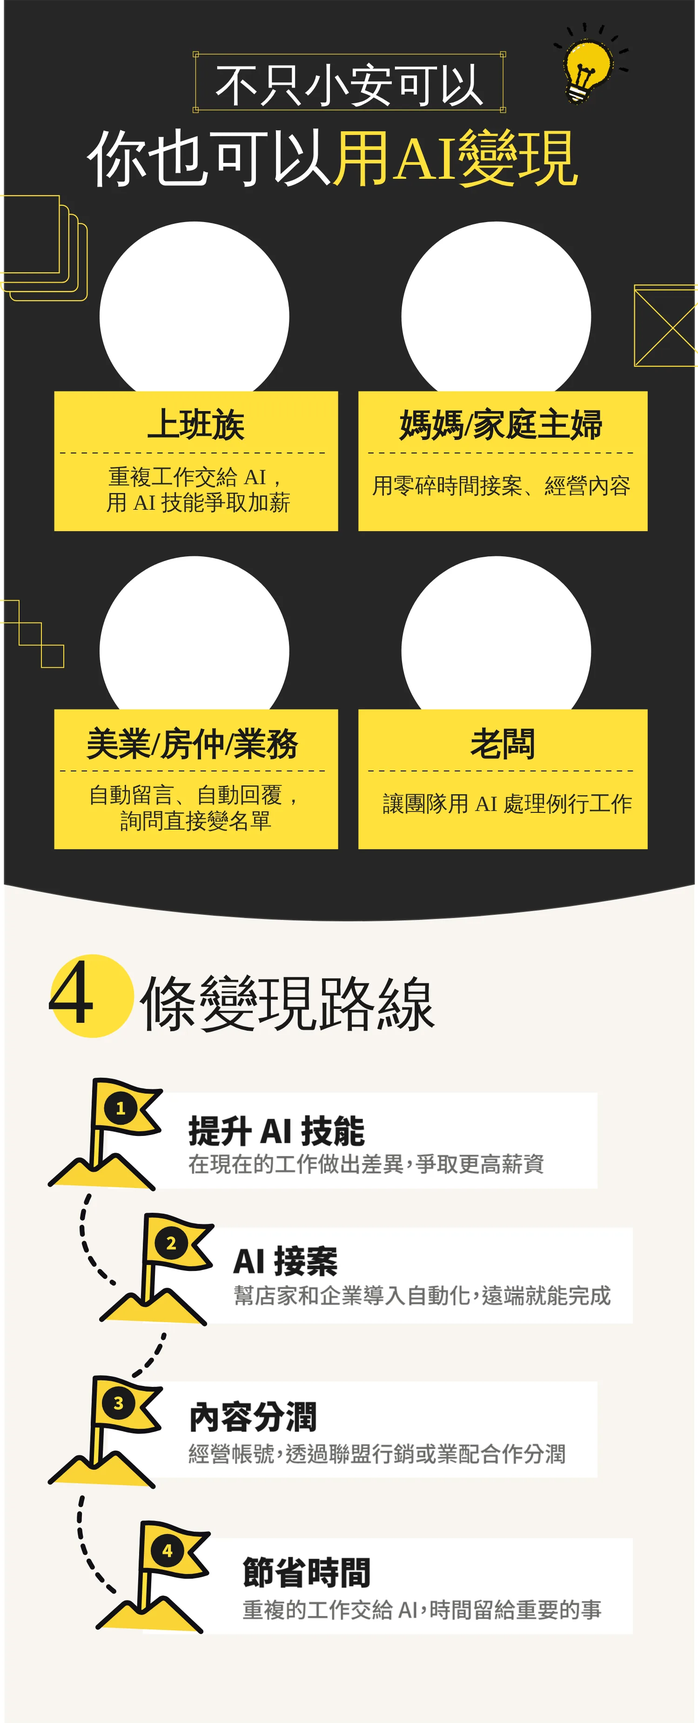
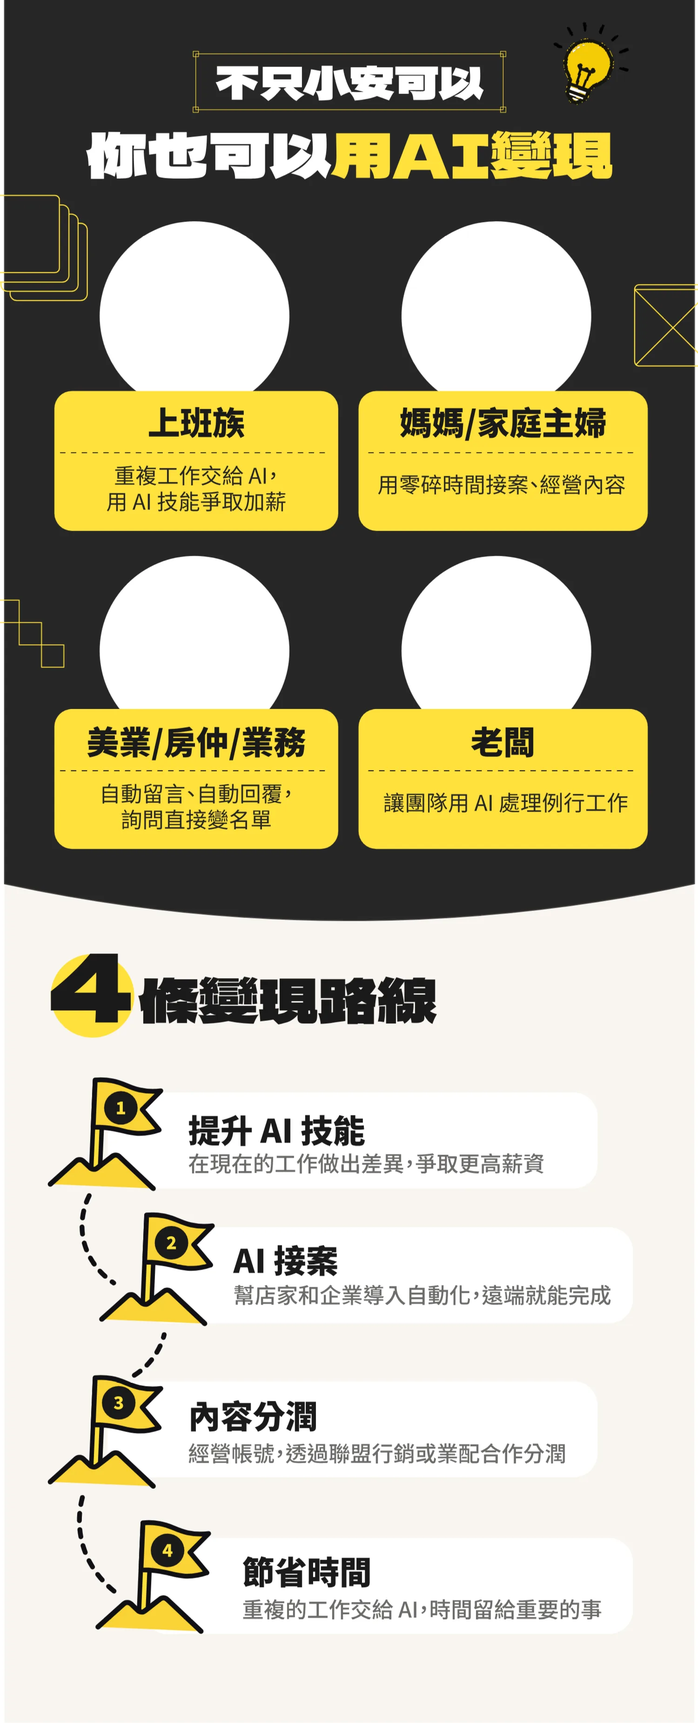
Update br-order: outlined-text bases, emphasis and button animations
Claude-Session: https://claude.ai/code/session_016nzG4RAtAFM2gf9k9NB6ra

diff --git a/br-order/index.html b/br-order/index.html
@@ -5,187 +5,155 @@
 <meta name="viewport" content="width=device-width,initial-scale=1">
 <title>AI 反擊計畫</title>
 <style>
-:root{--page:#101014}
 *{box-sizing:border-box}
-html,body{margin:0;background:var(--page)}
+html,body{margin:0;background:#101014}
 .page{max-width:750px;margin:0 auto;overflow:hidden}
-.sec{position:relative}
-.band{width:100%;background-size:100% auto;background-repeat:no-repeat;opacity:0;transform:translateY(18px);transition:opacity .7s ease,transform .8s cubic-bezier(.2,.7,.2,1)}
-.band.in{opacity:1;transform:none}
-.layer{position:absolute;pointer-events:none;opacity:0;transition:opacity .6s ease var(--d),transform .9s cubic-bezier(.34,1.56,.64,1) var(--d)}
-.layer img{display:block;width:100%;height:auto}
-.layer.pop{transform:translateY(30px) scale(.82)}
-.layer.swing{transform:translateX(-40px) rotate(-8deg)}
-.layer.photo{transform:scale(1.08);transition-duration:.9s,1.2s;transition-timing-function:ease,ease}
-.layer.in{opacity:1;transform:none}
-.layer.pop.in img{animation:float 3.6s ease-in-out calc(var(--d) + 1s) infinite}
-.layer.swing.in img{animation:wiggle 4s ease-in-out 1.2s infinite}
-@keyframes float{0%,100%{transform:translateY(0)}50%{transform:translateY(-8px)}}
-@keyframes wiggle{0%,100%{transform:rotate(0)}50%{transform:rotate(-3deg) scale(1.03)}}
-@media (prefers-reduced-motion:reduce){.band,.layer{opacity:1!important;transform:none!important;transition:none!important}.layer img{animation:none!important}}
+.sec{position:relative;width:100%}
+.base{display:block;width:100%;height:100%}
+.ill,.fx{position:absolute;pointer-events:none}
+.ill img{display:block;width:100%;height:auto}
+.fx{background-repeat:no-repeat;overflow:hidden;transform-origin:50% 50%}
+.ill.float img{animation:float 3.8s ease-in-out var(--d) infinite}
+.ill.swing img{transform-origin:20% 80%;animation:swing 3.2s ease-in-out infinite}
+.fx.pulse{animation:pulse 2.2s ease-in-out calc(var(--i)*-.37s) infinite}
+.fx.wiggle{animation:wiggle 2.6s ease-in-out calc(var(--i)*-.45s) infinite}
+.fx.flag{transform-origin:30% 95%}
+.fx.shine::after{content:"";position:absolute;inset:0;background:linear-gradient(105deg,transparent 30%,rgba(255,255,255,.75) 47%,rgba(255,255,255,.9) 50%,rgba(255,255,255,.75) 53%,transparent 70%);background-size:250% 100%;background-position:150% 0;animation:shine 3.4s ease-in-out calc(var(--i)*-.6s) infinite}
+.fx.shine.soft::after{mix-blend-mode:overlay}
+.fx.beat{opacity:1}
+.fx.beat.run{animation:beat .7s cubic-bezier(.34,1.56,.64,1) calc(var(--i)*.12s) 1 both}
+.sec:not(.run) .ill img,.sec:not(.run) .fx,.sec:not(.run) .fx::after{animation-play-state:paused}
+@keyframes float{0%,100%{transform:translateY(0)}50%{transform:translateY(-3%)}}
+@keyframes swing{0%,100%{transform:rotate(0)}50%{transform:rotate(-5deg) scale(1.04)}}
+@keyframes pulse{0%,100%{transform:scale(1)}50%{transform:scale(1.06)}}
+@keyframes wiggle{0%,100%{transform:scale(1.08) rotate(0)}25%{transform:scale(1.08) rotate(-5deg)}75%{transform:scale(1.08) rotate(5deg)}}
+@keyframes shine{0%,40%{background-position:150% 0}100%{background-position:-50% 0}}
+@keyframes beat{0%{transform:scale(1)}45%{transform:scale(1.18)}100%{transform:scale(1)}}
+@media (prefers-reduced-motion:reduce){.ill img,.fx,.fx::after{animation:none!important}}
 </style>
 </head>
 <body>
 <main class="page">
-<section class="sec" style="background:#01040f">
-<div class="band" style="aspect-ratio:1500/349;background-image:url(./s01/base.webp);background-position:0 0.0000%"></div>
-<div class="band" style="aspect-ratio:1500/245;background-image:url(./s01/base.webp);background-position:0 14.9337%"></div>
-<div class="band" style="aspect-ratio:1500/180;background-image:url(./s01/base.webp);background-position:0 24.7294%"></div>
-<div class="band" style="aspect-ratio:1500/445;background-image:url(./s01/base.webp);background-position:0 36.2190%"></div>
-<div class="band" style="aspect-ratio:1500/128;background-image:url(./s01/base.webp);background-position:0 49.6740%"></div>
-<div class="band" style="aspect-ratio:1500/279;background-image:url(./s01/base.webp);background-position:0 58.4889%"></div>
-<div class="band" style="aspect-ratio:1500/412;background-image:url(./s01/base.webp);background-position:0 74.9309%"></div>
-<div class="band" style="aspect-ratio:1500/124;background-image:url(./s01/base.webp);background-position:0 82.9129%"></div>
-<div class="band" style="aspect-ratio:1500/195;background-image:url(./s01/base.webp);background-position:0 90.5739%"></div>
-<div class="band" style="aspect-ratio:1500/225;background-image:url(./s01/base.webp);background-position:0 100.0000%"></div>
-<div class="layer pop" style="left:25.152%;top:46.006%;width:52.667%;--d:0.00s"><img src="./s01/l9.webp" alt="" loading="lazy"></div>
-<div class="layer swing" style="left:5.25%;top:26.592%;width:18.067%;--d:0.15s"><img src="./s01/l13.webp" alt="" loading="lazy"></div>
+<section class="sec" style="aspect-ratio:1500/2582">
+<img class="base" src="./s01/base.webp?v=2" alt="" width="1500" height="2582">
+<div class="ill float" style="left:25.162%;top:45.984%;width:52.667%;--d:0.0s"><img src="./s01/l9.webp?v=2" alt="" loading="lazy"></div>
+<div class="ill swing" style="left:5.262%;top:26.57%;width:18.067%;--d:-0.9s"><img src="./s01/l13.webp?v=2" alt="" loading="lazy"></div>
+<div class="fx pulse shine" style="left:12.667%;top:77.847%;width:76.667%;height:6.584%;background-image:url(./s01/base.webp?v=2);background-size:130.435% auto;background-position:54.286% 83.333%;border-radius:0.70% / 4.71%;--i:0"></div>
 </section>
-<section class="sec" style="background:#ffe13c">
-<div class="band" style="aspect-ratio:1500/529;background-image:url(./s02/base.webp);background-position:0 0.0000%"></div>
-<div class="band" style="aspect-ratio:1500/95;background-image:url(./s02/base.webp);background-position:0 24.7081%"></div>
-<div class="band" style="aspect-ratio:1500/242;background-image:url(./s02/base.webp);background-position:0 31.2939%"></div>
-<div class="band" style="aspect-ratio:1500/331;background-image:url(./s02/base.webp);background-position:0 45.4593%"></div>
-<div class="band" style="aspect-ratio:1500/90;background-image:url(./s02/base.webp);background-position:0 55.7782%"></div>
-<div class="band" style="aspect-ratio:1500/184;background-image:url(./s02/base.webp);background-position:0 62.7193%"></div>
-<div class="band" style="aspect-ratio:1500/445;background-image:url(./s02/base.webp);background-position:0 82.1329%"></div>
-<div class="band" style="aspect-ratio:1500/95;background-image:url(./s02/base.webp);background-position:0 89.4909%"></div>
-<div class="band" style="aspect-ratio:1500/225;background-image:url(./s02/base.webp);background-position:0 100.0000%"></div>
-
+<section class="sec" style="aspect-ratio:1500/2236">
+<img class="base" src="./s02/base.webp?v=2" alt="" width="1500" height="2236" loading="lazy">
+<div class="fx pulse" style="left:53.667%;top:12.299%;width:16.333%;height:10.063%;background-image:url(./s02/base.webp?v=2);background-size:612.245% auto;background-position:64.143% 13.675%;border-radius:0.00% / 0.00%;--i:0"></div>
+<div class="fx wiggle" style="left:8.667%;top:28.399%;width:9.000%;height:6.261%;background-image:url(./s02/base.webp?v=2);background-size:1111.111% auto;background-position:9.524% 30.296%;border-radius:0.00% / 0.00%;--i:1"></div>
+<div class="fx wiggle" style="left:8.667%;top:43.292%;width:9.000%;height:6.261%;background-image:url(./s02/base.webp?v=2);background-size:1111.111% auto;background-position:9.524% 46.183%;border-radius:0.00% / 0.00%;--i:2"></div>
+<div class="fx wiggle" style="left:8.667%;top:58.229%;width:9.000%;height:6.261%;background-image:url(./s02/base.webp?v=2);background-size:1111.111% auto;background-position:9.524% 62.118%;border-radius:0.00% / 0.00%;--i:3"></div>
+<div class="fx wiggle" style="left:8.667%;top:72.898%;width:9.000%;height:6.485%;background-image:url(./s02/base.webp?v=2);background-size:1111.111% auto;background-position:9.524% 77.953%;border-radius:0.00% / 0.00%;--i:4"></div>
+<div class="fx wiggle" style="left:86.333%;top:91.234%;width:11.000%;height:6.932%;background-image:url(./s02/base.webp?v=2);background-size:909.091% auto;background-position:97.004% 98.030%;border-radius:0.00% / 0.00%;--i:5"></div>
+<div class="fx shine soft" style="left:8.000%;top:84.302%;width:84.333%;height:11.852%;background-image:url(./s02/base.webp?v=2);background-size:118.577% auto;background-position:51.064% 95.637%;border-radius:0.00% / 0.00%;--i:6"></div>
 </section>
-<section class="sec" style="background:#ffffff">
-<div class="band" style="aspect-ratio:1500/586;background-image:url(./s03/base.webp);background-position:0 0.0000%"></div>
-<div class="band" style="aspect-ratio:1500/133;background-image:url(./s03/base.webp);background-position:0 28.1190%"></div>
-<div class="band" style="aspect-ratio:1500/282;background-image:url(./s03/base.webp);background-position:0 37.1576%"></div>
-<div class="band" style="aspect-ratio:1500/130;background-image:url(./s03/base.webp);background-position:0 47.9636%"></div>
-<div class="band" style="aspect-ratio:1500/295;background-image:url(./s03/base.webp);background-position:0 58.8450%"></div>
-<div class="band" style="aspect-ratio:1500/125;background-image:url(./s03/base.webp);background-position:0 68.1644%"></div>
-<div class="band" style="aspect-ratio:1500/232;background-image:url(./s03/base.webp);background-position:0 78.1360%"></div>
-<div class="band" style="aspect-ratio:1500/191;background-image:url(./s03/base.webp);background-position:0 88.0059%"></div>
-<div class="band" style="aspect-ratio:1500/243;background-image:url(./s03/base.webp);background-position:0 100.0000%"></div>
-
+<section class="sec" style="aspect-ratio:1500/2217">
+<img class="base" src="./s03/base.webp?v=2" alt="" width="1500" height="2217" loading="lazy">
+<div class="fx wiggle" style="left:2.000%;top:4.511%;width:15.000%;height:6.540%;background-image:url(./s03/base.webp?v=2);background-size:666.667% auto;background-position:2.353% 4.826%;border-radius:0.00% / 0.00%;--i:0"></div>
+<div class="fx beat" style="left:6.667%;top:26.387%;width:17.667%;height:6.089%;background-image:url(./s03/base.webp?v=2);background-size:566.038% auto;background-position:8.097% 28.098%;border-radius:0.00% / 0.00%;--i:1"></div>
+<div class="fx beat" style="left:52.667%;top:26.387%;width:17.667%;height:6.089%;background-image:url(./s03/base.webp?v=2);background-size:566.038% auto;background-position:63.968% 28.098%;border-radius:0.00% / 0.00%;--i:2"></div>
+<div class="fx beat" style="left:6.667%;top:45.196%;width:28.000%;height:5.683%;background-image:url(./s03/base.webp?v=2);background-size:357.143% auto;background-position:9.259% 47.920%;border-radius:0.00% / 0.00%;--i:3"></div>
+<div class="fx beat" style="left:52.667%;top:45.196%;width:29.200%;height:5.683%;background-image:url(./s03/base.webp?v=2);background-size:342.466% auto;background-position:74.388% 47.920%;border-radius:0.00% / 0.00%;--i:4"></div>
+<div class="fx beat" style="left:6.667%;top:64.051%;width:23.200%;height:6.180%;background-image:url(./s03/base.webp?v=2);background-size:431.034% auto;background-position:8.681% 68.269%;border-radius:0.00% / 0.00%;--i:5"></div>
+<div class="fx beat" style="left:52.667%;top:64.051%;width:27.200%;height:6.180%;background-image:url(./s03/base.webp?v=2);background-size:367.647% auto;background-position:72.344% 68.269%;border-radius:0.00% / 0.00%;--i:6"></div>
+<div class="fx shine" style="left:5.667%;top:88.408%;width:88.667%;height:5.954%;background-image:url(./s03/base.webp?v=2);background-size:112.782% auto;background-position:50.000% 94.005%;border-radius:0.00% / 0.00%;--i:7"></div>
 </section>
-<section class="sec" style="background:#101014">
-<div class="band" style="aspect-ratio:1500/304;background-image:url(./s04/base.webp);background-position:0 0.0000%"></div>
-<div class="band" style="aspect-ratio:1500/652;background-image:url(./s04/base.webp);background-position:0 11.5326%"></div>
-<div class="band" style="aspect-ratio:1500/91;background-image:url(./s04/base.webp);background-position:0 29.9030%"></div>
-<div class="band" style="aspect-ratio:1500/779;background-image:url(./s04/base.webp);background-position:0 41.7298%"></div>
-<div class="band" style="aspect-ratio:1500/291;background-image:url(./s04/base.webp);background-position:0 60.9276%"></div>
-<div class="band" style="aspect-ratio:1500/277;background-image:url(./s04/base.webp);background-position:0 70.3089%"></div>
-<div class="band" style="aspect-ratio:1500/255;background-image:url(./s04/base.webp);background-position:0 78.9318%"></div>
-<div class="band" style="aspect-ratio:1500/332;background-image:url(./s04/base.webp);background-position:0 89.6143%"></div>
-<div class="band" style="aspect-ratio:1500/307;background-image:url(./s04/base.webp);background-position:0 100.0000%"></div>
-
+<section class="sec" style="aspect-ratio:1500/3288">
+<img class="base" src="./s04/base.webp?v=2" alt="" width="1500" height="3288" loading="lazy">
+<div class="fx pulse" style="left:60.000%;top:14.599%;width:36.000%;height:5.627%;background-image:url(./s04/base.webp?v=2);background-size:277.778% auto;background-position:93.750% 15.469%;border-radius:0.00% / 0.00%;--i:0"></div>
+<div class="fx pulse" style="left:7.467%;top:47.597%;width:14.933%;height:6.904%;background-image:url(./s04/base.webp?v=2);background-size:669.643% auto;background-position:8.777% 51.127%;border-radius:0.00% / 0.00%;--i:1"></div>
+<div class="fx pulse" style="left:34.467%;top:47.597%;width:15.200%;height:6.904%;background-image:url(./s04/base.webp?v=2);background-size:657.895% auto;background-position:40.645% 51.127%;border-radius:0.00% / 0.00%;--i:2"></div>
+<div class="fx pulse" style="left:63.533%;top:47.597%;width:15.000%;height:6.904%;background-image:url(./s04/base.webp?v=2);background-size:666.667% auto;background-position:74.745% 51.127%;border-radius:0.00% / 0.00%;--i:3"></div>
+<div class="fx pulse" style="left:67.467%;top:57.725%;width:21.867%;height:3.467%;background-image:url(./s04/base.webp?v=2);background-size:457.317% auto;background-position:86.348% 59.798%;border-radius:0.00% / 0.00%;--i:4"></div>
+<div class="fx pulse" style="left:67.467%;top:65.328%;width:21.867%;height:3.528%;background-image:url(./s04/base.webp?v=2);background-size:457.317% auto;background-position:86.348% 67.718%;border-radius:0.00% / 0.00%;--i:5"></div>
+<div class="fx pulse" style="left:67.467%;top:73.084%;width:21.867%;height:3.528%;background-image:url(./s04/base.webp?v=2);background-size:457.317% auto;background-position:86.348% 75.757%;border-radius:0.00% / 0.00%;--i:6"></div>
+<div class="fx pulse" style="left:66.667%;top:80.748%;width:22.667%;height:3.498%;background-image:url(./s04/base.webp?v=2);background-size:441.176% auto;background-position:86.207% 83.675%;border-radius:0.00% / 0.00%;--i:7"></div>
+<div class="fx pulse shine" style="left:12.667%;top:89.964%;width:74.667%;height:5.687%;background-image:url(./s04/base.webp?v=2);background-size:133.929% auto;background-position:50.000% 95.389%;border-radius:8.04% / 48.13%;--i:8"></div>
 </section>
-<section class="sec" style="background:#f8f5ef">
-<div class="band" style="aspect-ratio:1500/297;background-image:url(./s05/base.webp);background-position:0 0.0000%"></div>
-<div class="band" style="aspect-ratio:1500/338;background-image:url(./s05/base.webp);background-position:0 20.5252%"></div>
-<div class="band" style="aspect-ratio:1500/316;background-image:url(./s05/base.webp);background-position:0 43.2267%"></div>
-<div class="band" style="aspect-ratio:1500/621;background-image:url(./s05/base.webp);background-position:0 81.7010%"></div>
-<div class="band" style="aspect-ratio:1500/213;background-image:url(./s05/base.webp);background-position:0 100.0000%"></div>
-<div class="layer pop" style="left:14.618%;top:27.748%;width:70.333%;--d:0.00s"><img src="./s05/l8.webp" alt="" loading="lazy"></div>
+<section class="sec" style="aspect-ratio:1500/1785">
+<img class="base" src="./s05/base.webp?v=2" alt="" width="1500" height="1785" loading="lazy">
+<div class="ill float" style="left:14.628%;top:27.715%;width:70.333%;--d:0.0s"><img src="./s05/l8.webp?v=2" alt="" loading="lazy"></div>
+<div class="fx shine soft" style="left:16.667%;top:14.286%;width:67.467%;height:13.445%;background-image:url(./s05/base.webp?v=2);background-size:148.221% auto;background-position:51.230% 16.505%;border-radius:0.00% / 0.00%;--i:0"></div>
+<div class="fx beat" style="left:7.867%;top:69.356%;width:25.867%;height:17.927%;background-image:url(./s05/base.webp?v=2);background-size:386.598% auto;background-position:10.612% 84.505%;border-radius:0.00% / 0.00%;--i:1"></div>
+<div class="fx beat" style="left:37.400%;top:69.356%;width:25.867%;height:17.927%;background-image:url(./s05/base.webp?v=2);background-size:386.598% auto;background-position:50.450% 84.505%;border-radius:0.00% / 0.00%;--i:2"></div>
+<div class="fx beat" style="left:66.400%;top:69.356%;width:25.933%;height:17.927%;background-image:url(./s05/base.webp?v=2);background-size:385.604% auto;background-position:89.649% 84.505%;border-radius:0.00% / 0.00%;--i:3"></div>
+<div class="fx pulse shine" style="left:13.667%;top:88.796%;width:72.667%;height:7.843%;background-image:url(./s05/base.webp?v=2);background-size:137.615% auto;background-position:50.000% 96.353%;border-radius:0.92% / 7.14%;--i:4"></div>
 </section>
-<section class="sec" style="background:#f8f5ef">
-<div class="band" style="aspect-ratio:1500/248;background-image:url(./s06/base.webp);background-position:0 0.0000%"></div>
-<div class="band" style="aspect-ratio:1500/159;background-image:url(./s06/base.webp);background-position:0 9.4512%"></div>
-<div class="band" style="aspect-ratio:1500/274;background-image:url(./s06/base.webp);background-position:0 16.2216%"></div>
-<div class="band" style="aspect-ratio:1500/293;background-image:url(./s06/base.webp);background-position:0 27.3494%"></div>
-<div class="band" style="aspect-ratio:1500/168;background-image:url(./s06/base.webp);background-position:0 37.2467%"></div>
-<div class="band" style="aspect-ratio:1500/261;background-image:url(./s06/base.webp);background-position:0 45.2815%"></div>
-<div class="band" style="aspect-ratio:1500/163;background-image:url(./s06/base.webp);background-position:0 53.5496%"></div>
-<div class="band" style="aspect-ratio:1500/170;background-image:url(./s06/base.webp);background-position:0 59.9311%"></div>
-<div class="band" style="aspect-ratio:1500/240;background-image:url(./s06/base.webp);background-position:0 68.2658%"></div>
-<div class="band" style="aspect-ratio:1500/297;background-image:url(./s06/base.webp);background-position:0 79.4851%"></div>
-<div class="band" style="aspect-ratio:1500/167;background-image:url(./s06/base.webp);background-position:0 86.8884%"></div>
-<div class="band" style="aspect-ratio:1500/343;background-image:url(./s06/base.webp);background-position:0 100.0000%"></div>
-<div class="layer pop" style="left:13.618%;top:14.621%;width:30.733%;--d:0.00s"><img src="./s06/l15.webp" alt="" loading="lazy"></div>
-<div class="layer pop" style="left:58.938%;top:14.259%;width:28.4%;--d:0.15s"><img src="./s06/l16.webp" alt="" loading="lazy"></div>
+<section class="sec" style="aspect-ratio:1500/2783">
+<img class="base" src="./s06/base.webp?v=2" alt="" width="1500" height="2783" loading="lazy">
+<div class="ill float" style="left:13.629%;top:14.6%;width:30.733%;--d:0.0s"><img src="./s06/l15.webp?v=2" alt="" loading="lazy"></div>
+<div class="ill float" style="left:58.948%;top:14.238%;width:28.4%;--d:-0.9s"><img src="./s06/l16.webp?v=2" alt="" loading="lazy"></div>
+<div class="fx shine" style="left:6.000%;top:3.881%;width:20.333%;height:4.312%;background-image:url(./s06/base.webp?v=2);background-size:491.803% auto;background-position:7.531% 4.056%;border-radius:0.00% / 0.00%;--i:0"></div>
+<div class="fx pulse" style="left:69.333%;top:52.641%;width:23.333%;height:4.635%;background-image:url(./s06/base.webp?v=2);background-size:428.571% auto;background-position:90.435% 55.200%;border-radius:0.00% / 0.00%;--i:1"></div>
+<div class="fx pulse" style="left:69.333%;top:58.714%;width:23.333%;height:4.743%;background-image:url(./s06/base.webp?v=2);background-size:428.571% auto;background-position:90.435% 61.637%;border-radius:0.00% / 0.00%;--i:2"></div>
+<div class="fx pulse" style="left:69.333%;top:64.894%;width:23.333%;height:4.563%;background-image:url(./s06/base.webp?v=2);background-size:428.571% auto;background-position:90.435% 67.997%;border-radius:0.00% / 0.00%;--i:3"></div>
 </section>
-<section class="sec" style="background:#f8f5ef">
-<div class="band" style="aspect-ratio:1500/719;background-image:url(./s07/base.webp);background-position:0 0.0000%"></div>
-<div class="band" style="aspect-ratio:1500/142;background-image:url(./s07/base.webp);background-position:0 35.2970%"></div>
-<div class="band" style="aspect-ratio:1500/143;background-image:url(./s07/base.webp);background-position:0 42.2888%"></div>
-<div class="band" style="aspect-ratio:1500/143;background-image:url(./s07/base.webp);background-position:0 49.3124%"></div>
-<div class="band" style="aspect-ratio:1500/143;background-image:url(./s07/base.webp);background-position:0 56.3360%"></div>
-<div class="band" style="aspect-ratio:1500/299;background-image:url(./s07/base.webp);background-position:0 68.6170%"></div>
-<div class="band" style="aspect-ratio:1500/97;background-image:url(./s07/base.webp);background-position:0 76.3208%"></div>
-<div class="band" style="aspect-ratio:1500/114;background-image:url(./s07/base.webp);background-position:0 81.6465%"></div>
-<div class="band" style="aspect-ratio:1500/379;background-image:url(./s07/base.webp);background-position:0 100.0000%"></div>
-<div class="layer pop" style="left:3.637%;top:0.565%;width:22.067%;--d:0.00s"><img src="./s07/l11.webp" alt="" loading="lazy"></div>
+<section class="sec" style="aspect-ratio:1500/2179">
+<img class="base" src="./s07/base.webp?v=2" alt="" width="1500" height="2179" loading="lazy">
+<div class="ill float" style="left:3.647%;top:0.539%;width:22.067%;--d:0.0s"><img src="./s07/l11.webp?v=2" alt="" loading="lazy"></div>
+<div class="fx wiggle" style="left:83.667%;top:17.210%;width:12.800%;height:10.877%;background-image:url(./s07/base.webp?v=2);background-size:781.250% auto;background-position:95.948% 19.310%;border-radius:0.00% / 0.00%;--i:0"></div>
+<div class="fx wiggle" style="left:6.000%;top:60.349%;width:12.133%;height:9.867%;background-image:url(./s07/base.webp?v=2);background-size:824.176% auto;background-position:6.829% 66.955%;border-radius:0.00% / 0.00%;--i:1"></div>
+<div class="fx pulse" style="left:7.333%;top:83.892%;width:24.000%;height:7.572%;background-image:url(./s07/base.webp?v=2);background-size:416.667% auto;background-position:9.649% 90.765%;border-radius:0.00% / 0.00%;--i:2"></div>
+<div class="fx pulse shine soft" style="left:32.000%;top:84.901%;width:58.000%;height:6.654%;background-image:url(./s07/base.webp?v=2);background-size:172.414% auto;background-position:76.190% 90.954%;border-radius:0.00% / 0.00%;--i:3"></div>
 </section>
-<section class="sec" style="background:#262626">
-<div class="band" style="aspect-ratio:1500/259;background-image:url(./s08/base.webp);background-position:0 0.0000%"></div>
-<div class="band" style="aspect-ratio:1500/172;background-image:url(./s08/base.webp);background-position:0 7.3392%"></div>
-<div class="band" style="aspect-ratio:1500/427;background-image:url(./s08/base.webp);background-position:0 13.1643%"></div>
-<div class="band" style="aspect-ratio:1500/129;background-image:url(./s08/base.webp);background-position:0 24.0202%"></div>
-<div class="band" style="aspect-ratio:1500/181;background-image:url(./s08/base.webp);background-position:0 28.0398%"></div>
-<div class="band" style="aspect-ratio:1500/240;background-image:url(./s08/base.webp);background-position:0 33.7475%"></div>
-<div class="band" style="aspect-ratio:1500/134;background-image:url(./s08/base.webp);background-position:0 39.4729%"></div>
-<div class="band" style="aspect-ratio:1500/128;background-image:url(./s08/base.webp);background-position:0 43.1570%"></div>
-<div class="band" style="aspect-ratio:1500/192;background-image:url(./s08/base.webp);background-position:0 47.5919%"></div>
-<div class="band" style="aspect-ratio:1500/153;background-image:url(./s08/base.webp);background-position:0 52.4803%"></div>
-<div class="band" style="aspect-ratio:1500/257;background-image:url(./s08/base.webp);background-position:0 58.5075%"></div>
-<div class="band" style="aspect-ratio:1500/198;background-image:url(./s08/base.webp);background-position:0 64.8587%"></div>
-<div class="band" style="aspect-ratio:1500/386;background-image:url(./s08/base.webp);background-position:0 74.5098%"></div>
-<div class="band" style="aspect-ratio:1500/234;background-image:url(./s08/base.webp);background-position:0 82.3767%"></div>
-<div class="band" style="aspect-ratio:1500/168;background-image:url(./s08/base.webp);background-position:0 87.4611%"></div>
-<div class="band" style="aspect-ratio:1500/348;background-image:url(./s08/base.webp);background-position:0 97.1667%"></div>
-<div class="band" style="aspect-ratio:1500/95;background-image:url(./s08/base.webp);background-position:0 100.0000%"></div>
-<div class="layer pop" style="left:15.561%;top:31.123%;width:24.067%;--d:0.00s"><img src="./s08/l4.webp" alt="" loading="lazy"></div>
-<div class="layer pop" style="left:61.552%;top:12.238%;width:22.867%;--d:0.15s"><img src="./s08/l5.webp" alt="" loading="lazy"></div>
-<div class="layer pop" style="left:59.242%;top:30.592%;width:25.867%;--d:0.30s"><img src="./s08/l6.webp" alt="" loading="lazy"></div>
-<div class="layer pop" style="left:14.335%;top:11.655%;width:26.933%;--d:0.45s"><img src="./s08/l7.webp" alt="" loading="lazy"></div>
-<div class="layer pop" style="left:64.99%;top:53.645%;width:30.267%;--d:0.60s"><img src="./s08/l10.webp" alt="" loading="lazy"></div>
+<section class="sec" style="aspect-ratio:1500/3701">
+<img class="base" src="./s08/base.webp?v=2" alt="" width="1500" height="3701" loading="lazy">
+<div class="ill float" style="left:15.573%;top:31.108%;width:24.067%;--d:0.0s"><img src="./s08/l4.webp?v=2" alt="" loading="lazy"></div>
+<div class="ill float" style="left:61.563%;top:12.223%;width:22.867%;--d:-0.9s"><img src="./s08/l5.webp?v=2" alt="" loading="lazy"></div>
+<div class="ill float" style="left:59.254%;top:30.576%;width:25.867%;--d:-1.8s"><img src="./s08/l6.webp?v=2" alt="" loading="lazy"></div>
+<div class="ill float" style="left:14.346%;top:11.639%;width:26.933%;--d:-2.7s"><img src="./s08/l7.webp?v=2" alt="" loading="lazy"></div>
+<div class="ill float" style="left:65.0%;top:53.629%;width:30.267%;--d:-3.6s"><img src="./s08/l10.webp?v=2" alt="" loading="lazy"></div>
+<div class="fx wiggle" style="left:79.000%;top:0.811%;width:11.000%;height:5.458%;background-image:url(./s08/base.webp?v=2);background-size:909.091% auto;background-position:88.764% 0.857%;border-radius:0.00% / 0.00%;--i:0"></div>
+<div class="fx beat" style="left:6.667%;top:55.120%;width:13.000%;height:5.188%;background-image:url(./s08/base.webp?v=2);background-size:769.231% auto;background-position:7.663% 58.136%;border-radius:0.00% / 0.00%;--i:1"></div>
+<div class="fx wiggle flag" style="left:6.667%;top:62.145%;width:16.667%;height:7.160%;background-image:url(./s08/base.webp?v=2);background-size:600.000% auto;background-position:8.000% 66.938%;border-radius:0.00% / 0.00%;--i:2"></div>
+<div class="fx wiggle flag" style="left:13.800%;top:69.927%;width:16.733%;height:7.079%;background-image:url(./s08/base.webp?v=2);background-size:597.610% auto;background-position:16.573% 75.254%;border-radius:0.00% / 0.00%;--i:3"></div>
+<div class="fx wiggle flag" style="left:6.667%;top:79.573%;width:16.667%;height:6.755%;background-image:url(./s08/base.webp?v=2);background-size:600.000% auto;background-position:8.000% 85.338%;border-radius:0.00% / 0.00%;--i:4"></div>
+<div class="fx wiggle flag" style="left:13.000%;top:87.949%;width:17.533%;height:7.106%;background-image:url(./s08/base.webp?v=2);background-size:570.342% auto;background-position:15.764% 94.677%;border-radius:0.00% / 0.00%;--i:5"></div>
 </section>
-<section class="sec" style="background:#1a1a1a">
-<div class="band" style="aspect-ratio:1500/259;background-image:url(./s09/base.webp);background-position:0 0.0000%"></div>
-<div class="band" style="aspect-ratio:1500/195;background-image:url(./s09/base.webp);background-position:0 16.3098%"></div>
-<div class="band" style="aspect-ratio:1500/137;background-image:url(./s09/base.webp);background-position:0 27.5820%"></div>
-<div class="band" style="aspect-ratio:1500/174;background-image:url(./s09/base.webp);background-position:0 36.7309%"></div>
-<div class="band" style="aspect-ratio:1500/181;background-image:url(./s09/base.webp);background-position:0 47.7528%"></div>
-<div class="band" style="aspect-ratio:1500/201;background-image:url(./s09/base.webp);background-position:0 59.7977%"></div>
-<div class="band" style="aspect-ratio:1500/182;background-image:url(./s09/base.webp);background-position:0 71.6427%"></div>
-<div class="band" style="aspect-ratio:1500/454;background-image:url(./s09/base.webp);background-position:0 100.0000%"></div>
-
+<section class="sec" style="aspect-ratio:1500/1783">
+<img class="base" src="./s09/base.webp?v=2" alt="" width="1500" height="1783" loading="lazy">
+<div class="fx beat" style="left:9.200%;top:33.259%;width:8.267%;height:6.955%;background-image:url(./s09/base.webp?v=2);background-size:1209.677% auto;background-position:10.029% 35.744%;border-radius:0.00% / 0.00%;--i:0"></div>
+<div class="fx beat" style="left:9.200%;top:43.522%;width:8.267%;height:6.955%;background-image:url(./s09/base.webp?v=2);background-size:1209.677% auto;background-position:10.029% 46.775%;border-radius:0.00% / 0.00%;--i:1"></div>
+<div class="fx beat" style="left:9.200%;top:53.954%;width:8.267%;height:6.955%;background-image:url(./s09/base.webp?v=2);background-size:1209.677% auto;background-position:10.029% 57.987%;border-radius:0.00% / 0.00%;--i:2"></div>
+<div class="fx beat" style="left:9.200%;top:64.610%;width:8.267%;height:6.955%;background-image:url(./s09/base.webp?v=2);background-size:1209.677% auto;background-position:10.029% 69.439%;border-radius:0.00% / 0.00%;--i:3"></div>
+<div class="fx beat" style="left:9.200%;top:75.042%;width:8.267%;height:6.955%;background-image:url(./s09/base.webp?v=2);background-size:1209.677% auto;background-position:10.029% 80.651%;border-radius:0.00% / 0.00%;--i:4"></div>
+<div class="fx wiggle" style="left:53.067%;top:33.259%;width:7.933%;height:6.955%;background-image:url(./s09/base.webp?v=2);background-size:1260.504% auto;background-position:57.639% 35.744%;border-radius:0.00% / 0.00%;--i:5"></div>
+<div class="fx wiggle" style="left:53.067%;top:43.522%;width:7.933%;height:6.955%;background-image:url(./s09/base.webp?v=2);background-size:1260.504% auto;background-position:57.639% 46.775%;border-radius:0.00% / 0.00%;--i:6"></div>
+<div class="fx wiggle" style="left:53.067%;top:53.954%;width:7.933%;height:6.955%;background-image:url(./s09/base.webp?v=2);background-size:1260.504% auto;background-position:57.639% 57.987%;border-radius:0.00% / 0.00%;--i:7"></div>
+<div class="fx wiggle" style="left:53.067%;top:64.610%;width:7.933%;height:6.955%;background-image:url(./s09/base.webp?v=2);background-size:1260.504% auto;background-position:57.639% 69.439%;border-radius:0.00% / 0.00%;--i:8"></div>
+<div class="fx wiggle" style="left:53.067%;top:75.042%;width:7.933%;height:6.955%;background-image:url(./s09/base.webp?v=2);background-size:1260.504% auto;background-position:57.639% 80.651%;border-radius:0.00% / 0.00%;--i:9"></div>
+<div class="fx shine" style="left:5.200%;top:88.054%;width:89.333%;height:8.188%;background-image:url(./s09/base.webp?v=2);background-size:111.940% auto;background-position:48.750% 95.907%;border-radius:0.00% / 0.00%;--i:10"></div>
 </section>
-<section class="sec" style="background:#f8f5ef">
-<div class="band" style="aspect-ratio:1500/249;background-image:url(./s10/base.webp);background-position:0 0.0000%"></div>
-<div class="band" style="aspect-ratio:1500/315;background-image:url(./s10/base.webp);background-position:0 15.8196%"></div>
-<div class="band" style="aspect-ratio:1500/104;background-image:url(./s10/base.webp);background-position:0 31.5966%"></div>
-<div class="band" style="aspect-ratio:1500/352;background-image:url(./s10/base.webp);background-position:0 43.4613%"></div>
-<div class="band" style="aspect-ratio:1500/307;background-image:url(./s10/base.webp);background-position:0 64.4753%"></div>
-<div class="band" style="aspect-ratio:1500/151;background-image:url(./s10/base.webp);background-position:0 76.3521%"></div>
-<div class="band" style="aspect-ratio:1500/140;background-image:url(./s10/base.webp);background-position:0 84.5054%"></div>
-<div class="band" style="aspect-ratio:1500/137;background-image:url(./s10/base.webp);background-position:0 92.3516%"></div>
-<div class="band" style="aspect-ratio:1500/134;background-image:url(./s10/base.webp);background-position:0 100.0000%"></div>
-<div class="layer pop" style="left:53.173%;top:32.164%;width:35.333%;--d:0.00s"><img src="./s10/l12.webp" alt="" loading="lazy"></div>
+<section class="sec" style="aspect-ratio:1500/1889">
+<img class="base" src="./s10/base.webp?v=2" alt="" width="1500" height="1889" loading="lazy">
+<div class="ill float" style="left:53.184%;top:32.133%;width:35.333%;--d:0.0s"><img src="./s10/l12.webp?v=2" alt="" loading="lazy"></div>
+<div class="fx wiggle" style="left:4.000%;top:13.870%;width:8.800%;height:7.835%;background-image:url(./s10/base.webp?v=2);background-size:1136.364% auto;background-position:4.386% 15.049%;border-radius:0.00% / 0.00%;--i:0"></div>
+<div class="fx wiggle" style="left:35.267%;top:13.870%;width:8.800%;height:7.835%;background-image:url(./s10/base.webp?v=2);background-size:1136.364% auto;background-position:38.670% 15.049%;border-radius:0.00% / 0.00%;--i:1"></div>
+<div class="fx wiggle" style="left:65.067%;top:13.870%;width:8.800%;height:7.835%;background-image:url(./s10/base.webp?v=2);background-size:1136.364% auto;background-position:71.345% 15.049%;border-radius:0.00% / 0.00%;--i:2"></div>
+<div class="fx shine" style="left:15.467%;top:44.733%;width:25.867%;height:6.617%;background-image:url(./s10/base.webp?v=2);background-size:386.598% auto;background-position:20.863% 47.902%;border-radius:0.00% / 0.00%;--i:3"></div>
+<div class="fx pulse" style="left:18.667%;top:52.673%;width:57.667%;height:9.370%;background-image:url(./s10/base.webp?v=2);background-size:173.410% auto;background-position:44.094% 58.119%;border-radius:0.00% / 0.00%;--i:4"></div>
+<div class="fx pulse shine" style="left:18.133%;top:68.978%;width:64.067%;height:7.570%;background-image:url(./s10/base.webp?v=2);background-size:156.087% auto;background-position:50.464% 74.628%;border-radius:7.28% / 48.95%;--i:5"></div>
+<div class="fx pulse" style="left:55.867%;top:79.142%;width:25.467%;height:6.194%;background-image:url(./s10/base.webp?v=2);background-size:392.670% auto;background-position:74.955% 84.368%;border-radius:0.00% / 0.00%;--i:6"></div>
 </section>
-<section class="sec" style="background:#f8f5ef">
-<div class="band" style="aspect-ratio:1500/144;background-image:url(./s11/base.webp);background-position:0 0.0000%"></div>
-<div class="band" style="aspect-ratio:1500/154;background-image:url(./s11/base.webp);background-position:0 6.3130%"></div>
-<div class="band" style="aspect-ratio:1500/388;background-image:url(./s11/base.webp);background-position:0 14.5579%"></div>
-<div class="band" style="aspect-ratio:1500/160;background-image:url(./s11/base.webp);background-position:0 30.1538%"></div>
-<div class="band" style="aspect-ratio:1500/402;background-image:url(./s11/base.webp);background-position:0 41.6134%"></div>
-<div class="band" style="aspect-ratio:1500/202;background-image:url(./s11/base.webp);background-position:0 55.8889%"></div>
-<div class="band" style="aspect-ratio:1500/170;background-image:url(./s11/base.webp);background-position:0 64.0177%"></div>
-<div class="band" style="aspect-ratio:1500/172;background-image:url(./s11/base.webp);background-position:0 71.5864%"></div>
-<div class="band" style="aspect-ratio:1500/92;background-image:url(./s11/base.webp);background-position:0 76.4831%"></div>
-<div class="band" style="aspect-ratio:1500/233;background-image:url(./s11/base.webp);background-position:0 85.5586%"></div>
-<div class="band" style="aspect-ratio:1500/139;background-image:url(./s11/base.webp);background-position:0 92.2038%"></div>
-<div class="band" style="aspect-ratio:1500/179;background-image:url(./s11/base.webp);background-position:0 100.0000%"></div>
-<div class="layer pop" style="left:4.165%;top:61.724%;width:27.733%;--d:0.00s"><img src="./s11/l27.webp" alt="" loading="lazy"></div>
+<section class="sec" style="aspect-ratio:1500/2435">
+<img class="base" src="./s11/base.webp?v=2" alt="" width="1500" height="2435" loading="lazy">
+<div class="ill float" style="left:4.176%;top:61.7%;width:27.667%;--d:0.0s"><img src="./s11/l27.webp?v=2" alt="" loading="lazy"></div>
+<div class="fx shine soft" style="left:35.333%;top:79.466%;width:55.867%;height:4.846%;background-image:url(./s11/base.webp?v=2);background-size:178.998% auto;background-position:80.060% 83.513%;border-radius:0.00% / 0.00%;--i:0"></div>
+<div class="fx pulse" style="left:2.533%;top:84.394%;width:7.667%;height:5.298%;background-image:url(./s11/base.webp?v=2);background-size:1304.348% auto;background-position:2.744% 89.115%;border-radius:0.00% / 0.00%;--i:1"></div>
+<div class="fx pulse" style="left:88.533%;top:84.394%;width:7.800%;height:5.298%;background-image:url(./s11/base.webp?v=2);background-size:1282.051% auto;background-position:96.023% 89.115%;border-radius:0.00% / 0.00%;--i:2"></div>
+<div class="fx pulse shine" style="left:12.333%;top:85.832%;width:75.000%;height:7.803%;background-image:url(./s11/base.webp?v=2);background-size:133.333% auto;background-position:49.333% 93.096%;border-radius:8.44% / 50.00%;--i:3"></div>
 </section>
 </main>
 <script>
 (function(){
-  var els=document.querySelectorAll('.band,.layer');
-  if(!('IntersectionObserver' in window)){els.forEach(function(e){e.classList.add('in')});return;}
-  var io=new IntersectionObserver(function(entries){
-    entries.forEach(function(en){if(en.isIntersecting){en.target.classList.add('in');io.unobserve(en.target);}});
-  },{rootMargin:'0px 0px -6% 0px',threshold:0.05});
-  els.forEach(function(e){io.observe(e)});
-  function atEnd(){if(window.innerHeight+window.scrollY>=document.documentElement.scrollHeight-40){els.forEach(function(e){e.classList.add('in')});window.removeEventListener('scroll',atEnd);}}
-  window.addEventListener('scroll',atEnd,{passive:true});atEnd();
+  if(!('IntersectionObserver' in window)){document.querySelectorAll('.sec,.fx.beat').forEach(function(e){e.classList.add('run')});return;}
+  var io=new IntersectionObserver(function(es){es.forEach(function(e){e.target.classList.toggle('run',e.isIntersecting)})},{threshold:0});
+  document.querySelectorAll('.sec').forEach(function(s){io.observe(s)});
+  var bo=new IntersectionObserver(function(es){es.forEach(function(e){if(e.isIntersecting){e.target.classList.add('run');bo.unobserve(e.target)}})},{threshold:.6});
+  document.querySelectorAll('.fx.beat').forEach(function(b){bo.observe(b)});
 })();
 </script>
 </body>
